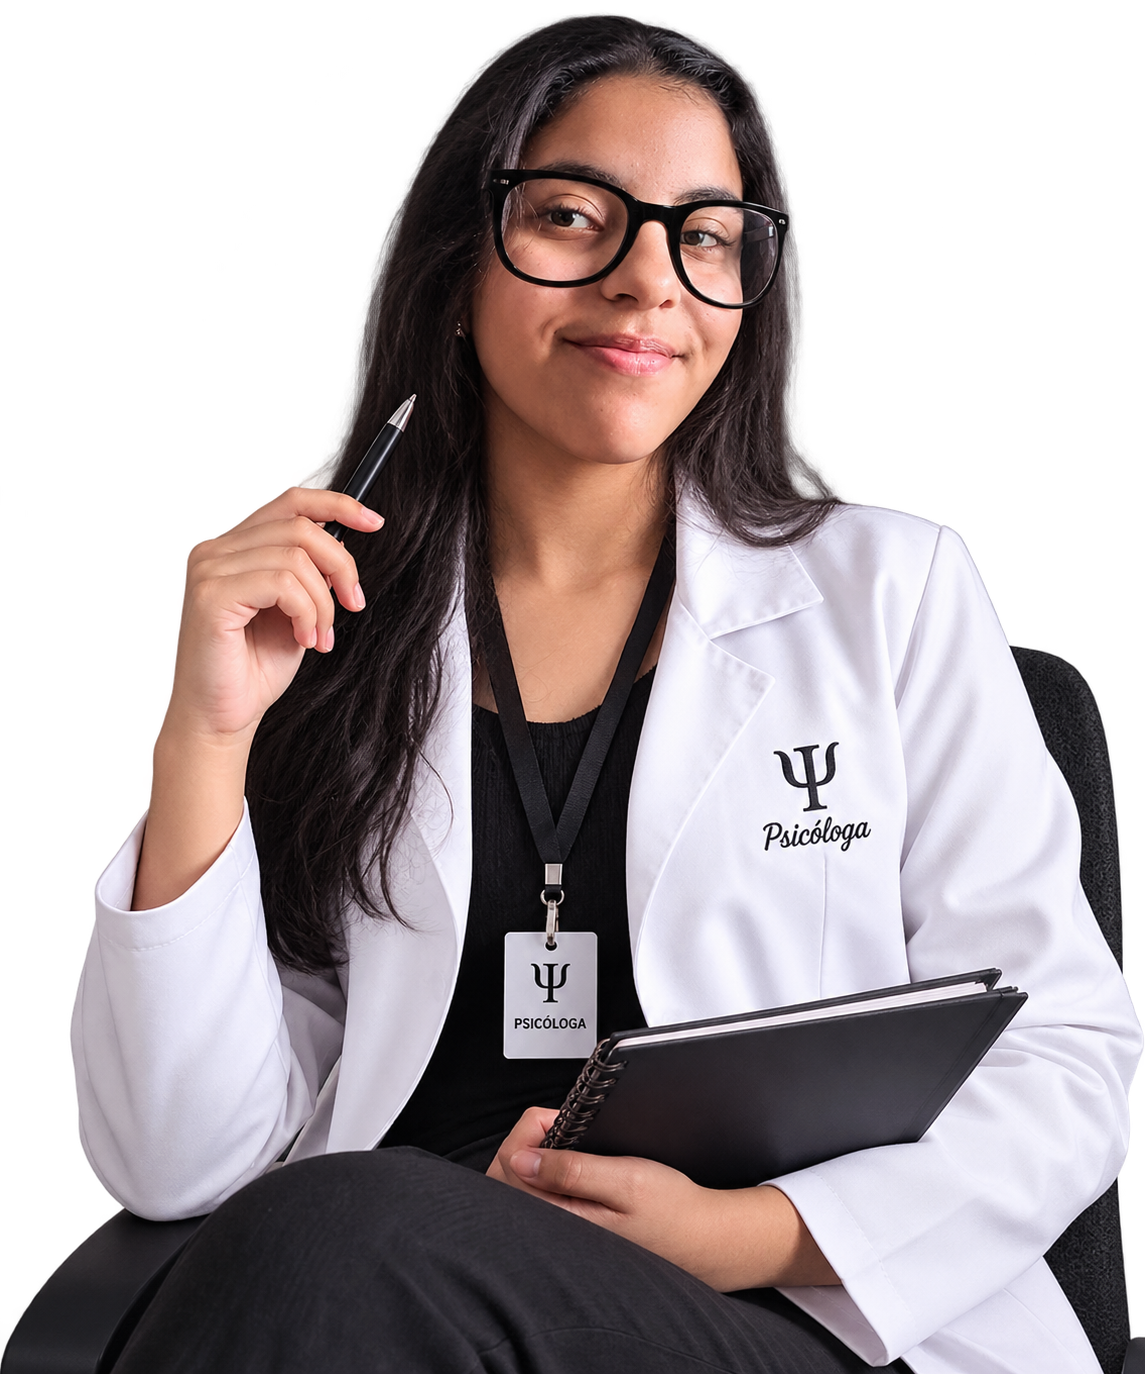
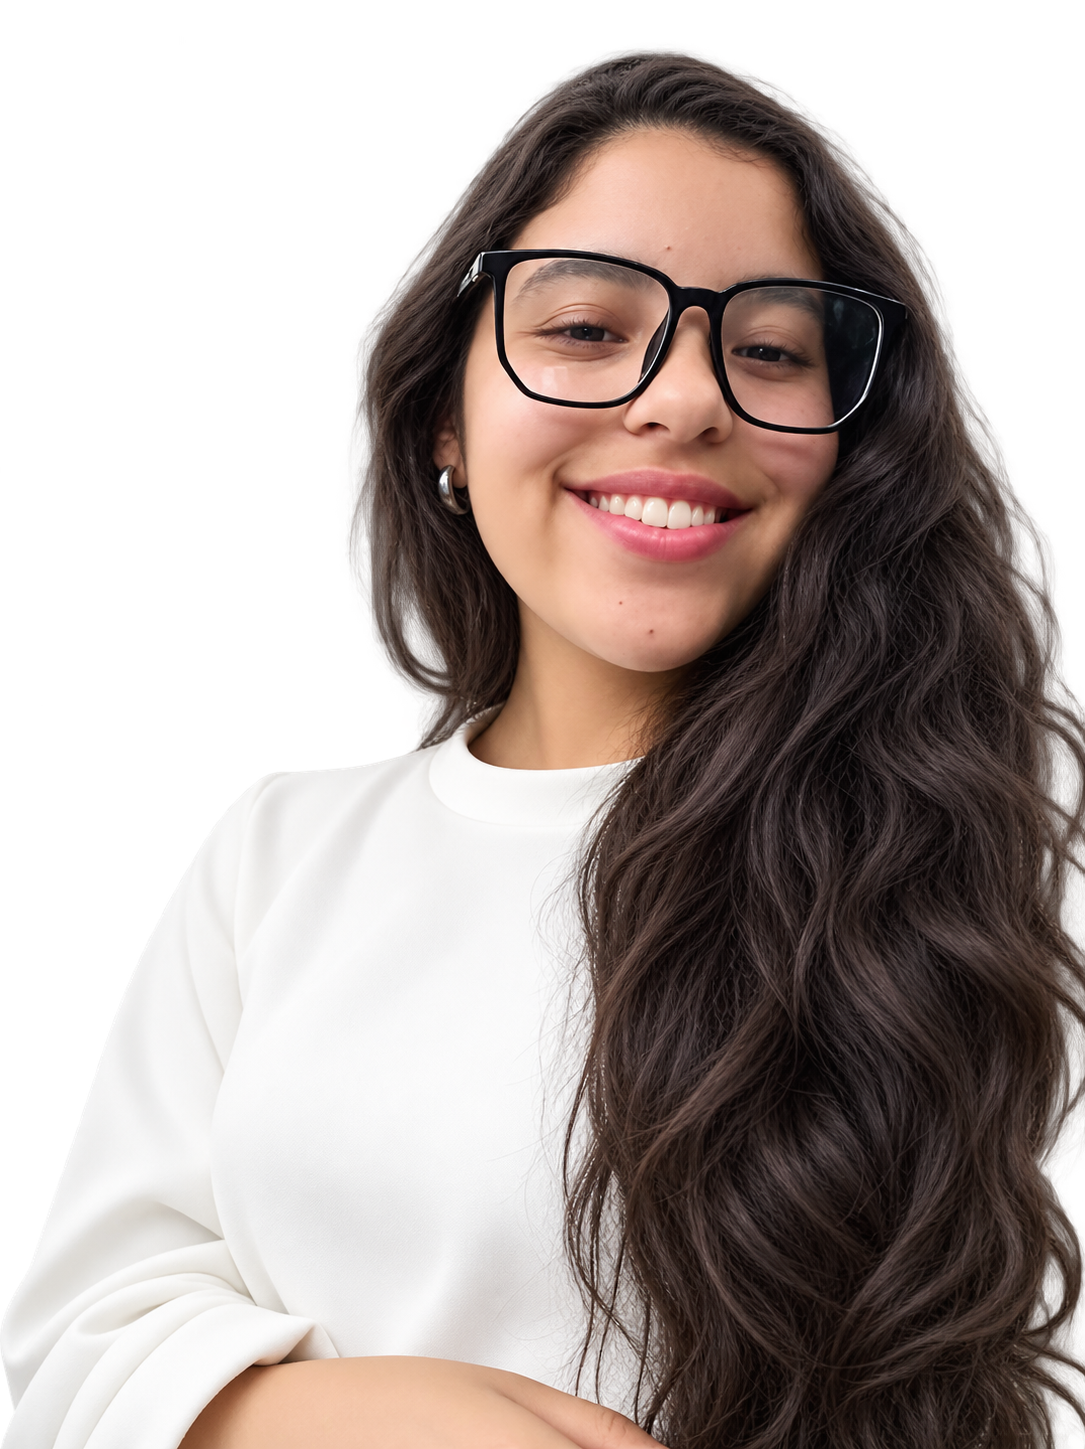
Update Yanina professional portrait with stable responsive dimensions

diff --git a/src/pages/Home.jsx b/src/pages/Home.jsx
@@ -102,7 +102,11 @@ export default function Home() {
             <img
               className="hero__photo"
               src={image}
+              width="1085"
+              height="1449"
+              decoding="async"
               onError={(e) => {
+                e.currentTarget.onerror = null;
                 e.currentTarget.src = fotoPadrao;
               }}
               alt={nombre}
